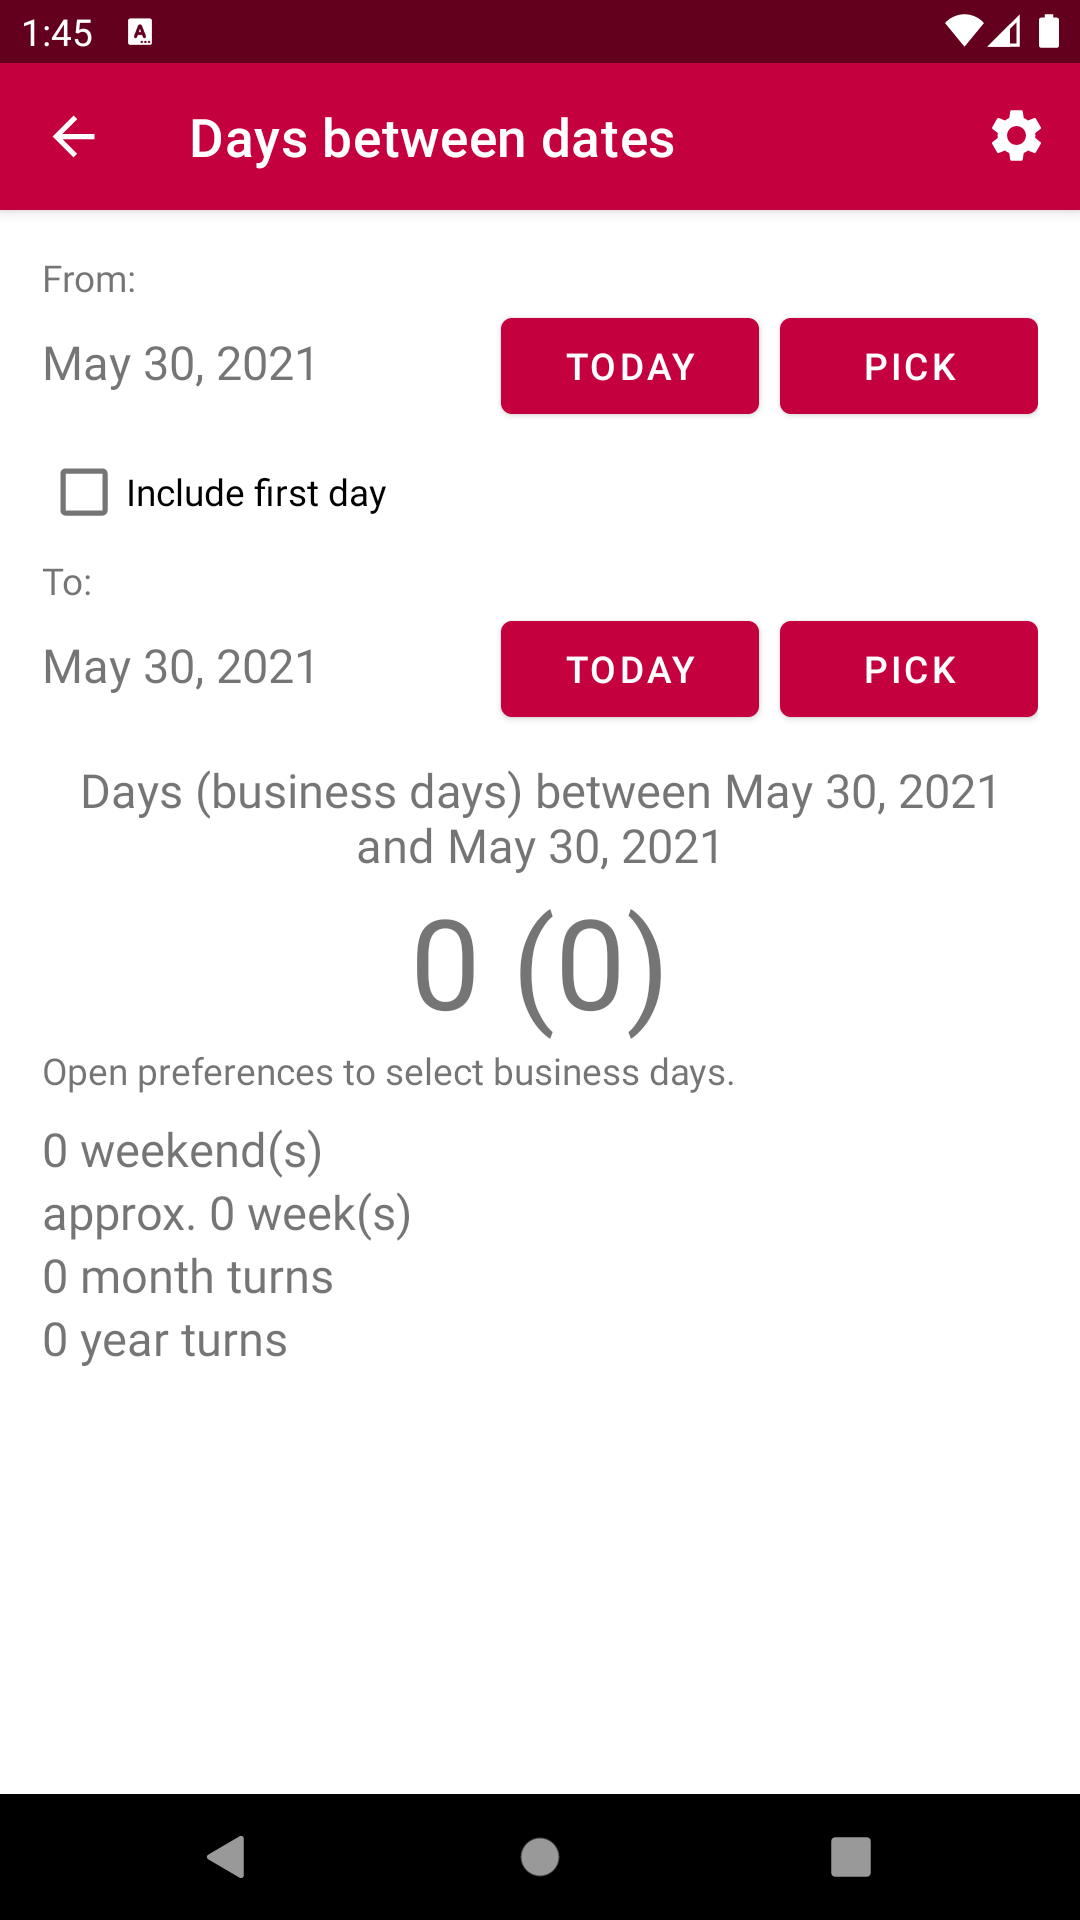
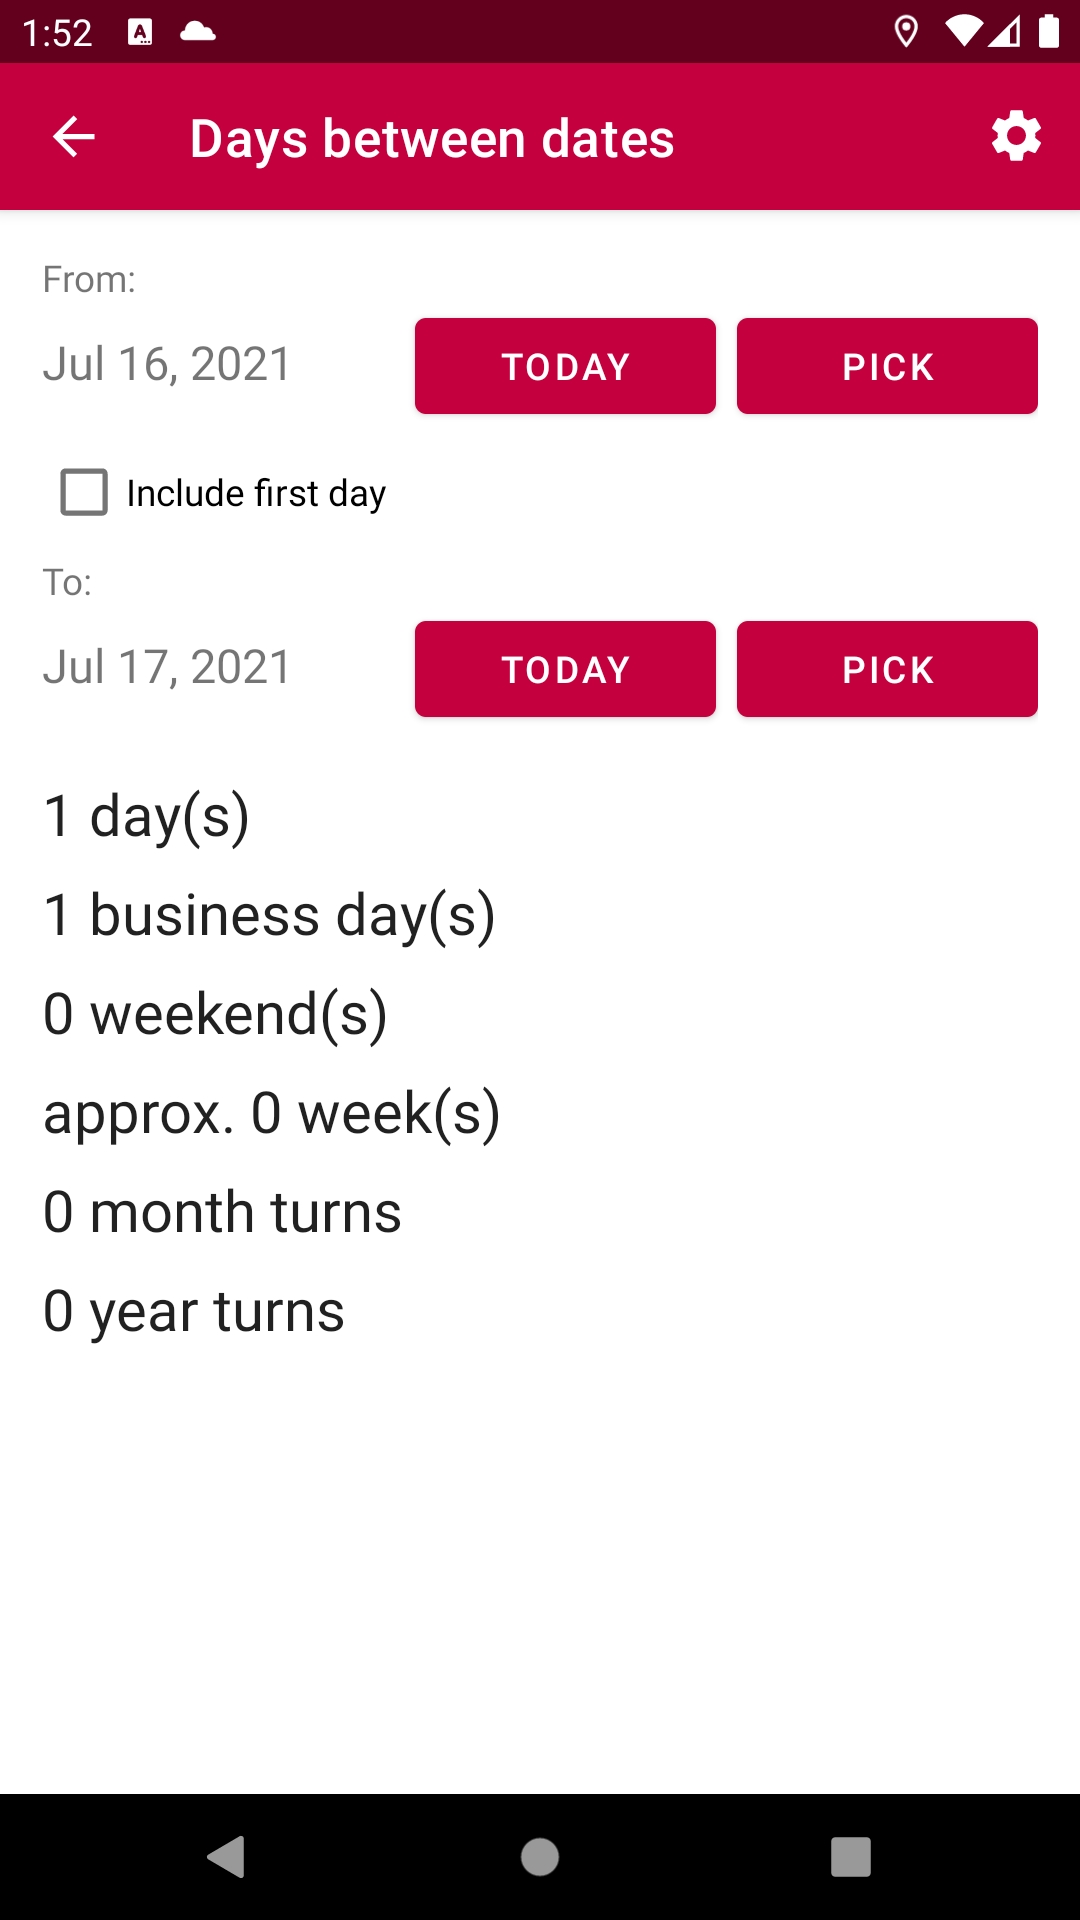
Optimized ui of module Days between Dates

diff --git a/app/src/main/java/com/thomaskuenneth/tkweek/CalendarAsyncTask.kt b/app/src/main/java/com/thomaskuenneth/tkweek/CalendarAsyncTask.kt
@@ -25,7 +25,6 @@ package com.thomaskuenneth.tkweek
 import android.content.Context
 import android.os.AsyncTask
 import android.os.Bundle
-import android.view.View
 import com.thomaskuenneth.tkweek.databinding.DaysBetweenDatesActivityBinding
 import com.thomaskuenneth.tkweek.preference.PickBusinessDaysPreference
 import com.thomaskuenneth.tkweek.util.DateUtilities
@@ -124,11 +123,11 @@ class CalendarAsyncTask(
         binding.firstDateToday.isEnabled = true
         binding.secondDatePick.isEnabled = true
         binding.secondDateToday.isEnabled = true
-        binding.daysBetweenDatesProgressbar.visibility = View.INVISIBLE
-        binding.daysBetweenDatesTotal.visibility = View.VISIBLE
-        binding.daysBetweenDatesTotal.text = context.getString(
-            R.string.days_total,
-            b.getInt(DAYS), b.getInt(BUSINESS_DAYS)
+        binding.daysBetweenDatesTotal1.text = context.getString(
+            R.string.days_between_dates_days, b.getInt(DAYS)
+        )
+        binding.daysBetweenDatesTotal2.text = context.getString(
+            R.string.days_between_dates_business_days, b.getInt(BUSINESS_DAYS)
         )
         binding.daysBetweenDatesWeekends.text = context.getString(
             R.string.days_between_dates_weekends, b.getInt(WEEKENDS)

diff --git a/app/src/main/java/com/thomaskuenneth/tkweek/fragment/DaysBetweenDatesFragment.kt b/app/src/main/java/com/thomaskuenneth/tkweek/fragment/DaysBetweenDatesFragment.kt
@@ -28,7 +28,6 @@ import android.view.LayoutInflater
 import android.view.View
 import android.view.ViewGroup
 import com.thomaskuenneth.tkweek.CalendarAsyncTask
-import com.thomaskuenneth.tkweek.R
 import com.thomaskuenneth.tkweek.activity.TKWeekActivity
 import com.thomaskuenneth.tkweek.databinding.DaysBetweenDatesActivityBinding
 import com.thomaskuenneth.tkweek.util.DateUtilities
@@ -113,13 +112,6 @@ class DaysBetweenDatesFragment : TKWeekBaseFragment<DaysBetweenDatesActivityBind
         binding.firstDateToday.isEnabled = false
         binding.secondDatePick.isEnabled = false
         binding.secondDateToday.isEnabled = false
-        binding.daysBetweenDatesTotal.visibility = View.INVISIBLE
-        binding.daysBetweenDatesProgressbar.visibility = View.VISIBLE
-        binding.daysBetweenDatesFromTo.text = getString(
-            R.string.days_from_to,
-            TKWeekActivity.FORMAT_DEFAULT.format(c1.time),
-            TKWeekActivity.FORMAT_DEFAULT.format(c2.time)
-        )
         CalendarAsyncTask(requireContext(), binding).execute(c1, c2)
     }
 
